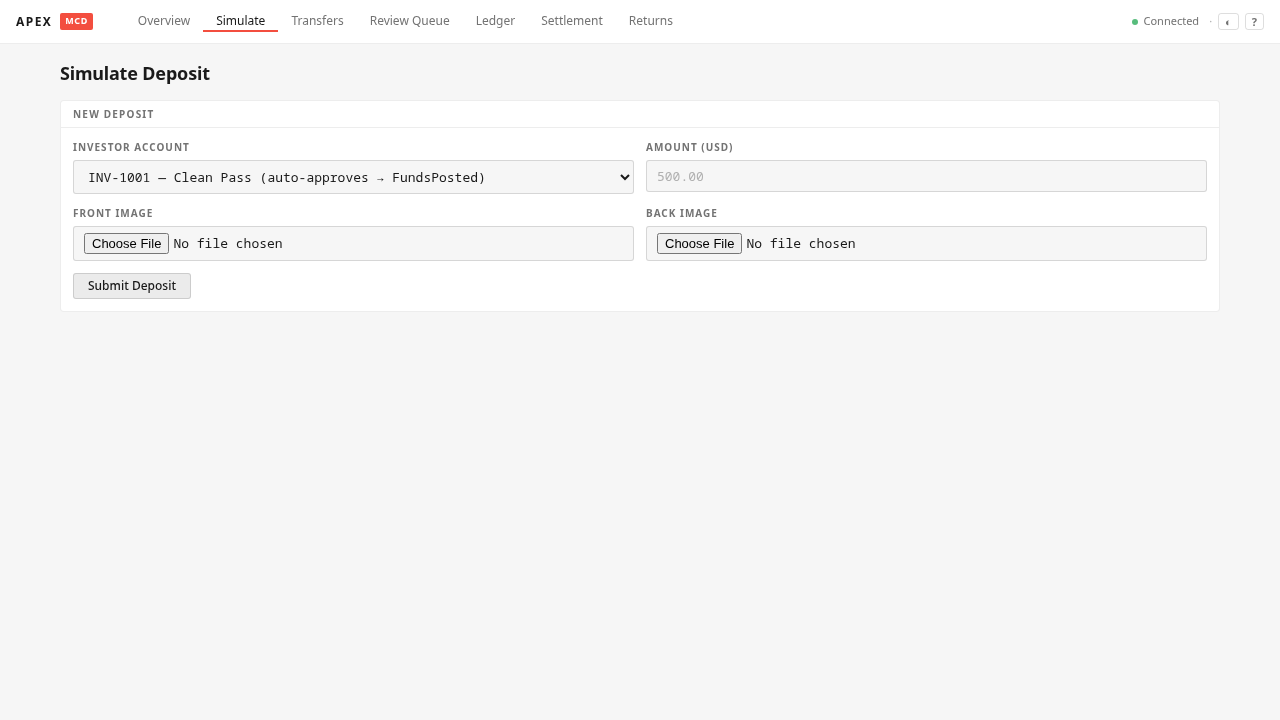
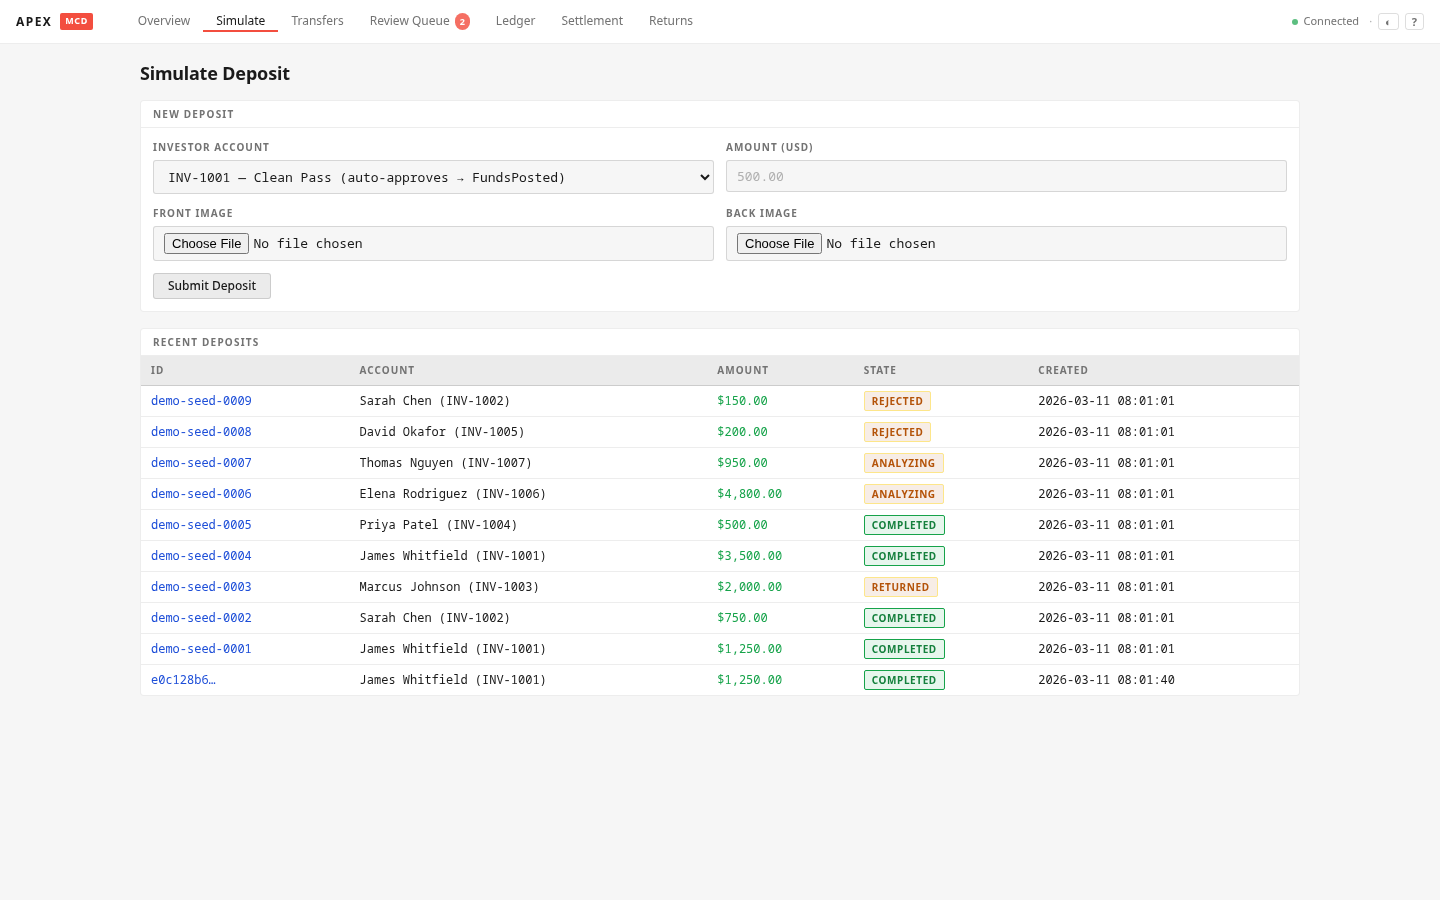
feat: refresh docs screenshots + add take-screenshots spec
- All 9 docs/screenshots/*.png regenerated with new Amp-redesigned UI
  (dashboard, simulator, transfer detail, review, ledger, settlement, returns)
- New take-screenshots.spec.ts: runs all page captures in 10s

diff --git a/tests/e2e/take-screenshots.spec.ts b/tests/e2e/take-screenshots.spec.ts
@@ -1,0 +1,100 @@
+/**
+ * Screenshot regenerator — captures fresh screenshots for docs/screenshots/
+ * Run: cd tests/e2e && npx playwright test take-screenshots.spec.ts
+ */
+
+import { test } from '@playwright/test';
+import * as path from 'path';
+import * as fs from 'fs';
+
+const DOCS = path.resolve(__dirname, '../../docs/screenshots');
+
+test.use({ viewport: { width: 1440, height: 900 } });
+
+test.describe('Screenshot Regenerator', () => {
+  test.setTimeout(120_000);
+
+  test('capture all pages', async ({ page, request }) => {
+    fs.mkdirSync(DOCS, { recursive: true });
+
+    // Ensure some data exists
+    await request.post('/api/v1/test/seed').catch(() => {});
+
+    // Get IDs we'll need
+    const depositsResp = await request.get('/api/v1/deposits?limit=50');
+    const deposits = (await depositsResp.json()) as any[];
+    const completed = deposits.find((d: any) => d.State === 'Completed' || d.State === 'FundsPosted');
+    const analyzing = deposits.find((d: any) => d.State === 'Analyzing' && d.ReviewRequired);
+    const transferId = completed?.ID ?? deposits[0]?.ID;
+    const reviewId = analyzing?.ID;
+
+    // 01 Dashboard
+    await page.goto('/ui');
+    await page.waitForLoadState('networkidle');
+    await page.screenshot({ path: path.join(DOCS, '01-dashboard.png'), fullPage: false });
+    console.log('01-dashboard.png ✓');
+
+    // 01 Deposit Simulator
+    await page.goto('/ui/simulate');
+    await page.waitForLoadState('networkidle');
+    await page.screenshot({ path: path.join(DOCS, '01-deposit-simulator.png'), fullPage: false });
+    console.log('01-deposit-simulator.png ✓');
+
+    // 02 Deposit Result (transfer detail of a completed transfer)
+    if (transferId) {
+      await page.goto(`/ui/transfers/${transferId}`);
+      await page.waitForLoadState('networkidle');
+      await page.screenshot({ path: path.join(DOCS, '02-deposit-result.png'), fullPage: false });
+      console.log('02-deposit-result.png ✓');
+    }
+
+    // 03 Transfers List
+    await page.goto('/ui/transfers');
+    await page.waitForLoadState('networkidle');
+    await page.screenshot({ path: path.join(DOCS, '03-transfers-list.png'), fullPage: false });
+    console.log('03-transfers-list.png ✓');
+
+    // 04 Transfer Detail
+    if (transferId) {
+      await page.goto(`/ui/transfers/${transferId}`);
+      await page.waitForLoadState('networkidle');
+      await page.evaluate(() => window.scrollBy(0, 300));
+      await page.waitForTimeout(300);
+      await page.screenshot({ path: path.join(DOCS, '04-transfer-detail.png'), fullPage: false });
+      console.log('04-transfer-detail.png ✓');
+    }
+
+    // 05 Operator Review
+    if (reviewId) {
+      await page.goto(`/ui/review/${reviewId}`);
+      await page.waitForLoadState('networkidle');
+      await page.screenshot({ path: path.join(DOCS, '05-operator-review.png'), fullPage: false });
+      console.log('05-operator-review.png ✓');
+    } else {
+      await page.goto('/ui/review');
+      await page.waitForLoadState('networkidle');
+      await page.screenshot({ path: path.join(DOCS, '05-operator-review.png'), fullPage: false });
+      console.log('05-operator-review.png (queue) ✓');
+    }
+
+    // 06 Ledger
+    await page.goto('/ui/ledger');
+    await page.waitForLoadState('networkidle');
+    await page.screenshot({ path: path.join(DOCS, '06-ledger.png'), fullPage: false });
+    console.log('06-ledger.png ✓');
+
+    // 07 Settlement
+    await page.goto('/ui/settlement');
+    await page.waitForLoadState('networkidle');
+    await page.screenshot({ path: path.join(DOCS, '07-settlement.png'), fullPage: false });
+    console.log('07-settlement.png ✓');
+
+    // 08 Returns
+    await page.goto('/ui/returns');
+    await page.waitForLoadState('networkidle');
+    await page.screenshot({ path: path.join(DOCS, '08-returns.png'), fullPage: false });
+    console.log('08-returns.png ✓');
+
+    console.log(`\nAll screenshots saved to ${DOCS}/`);
+  });
+});
